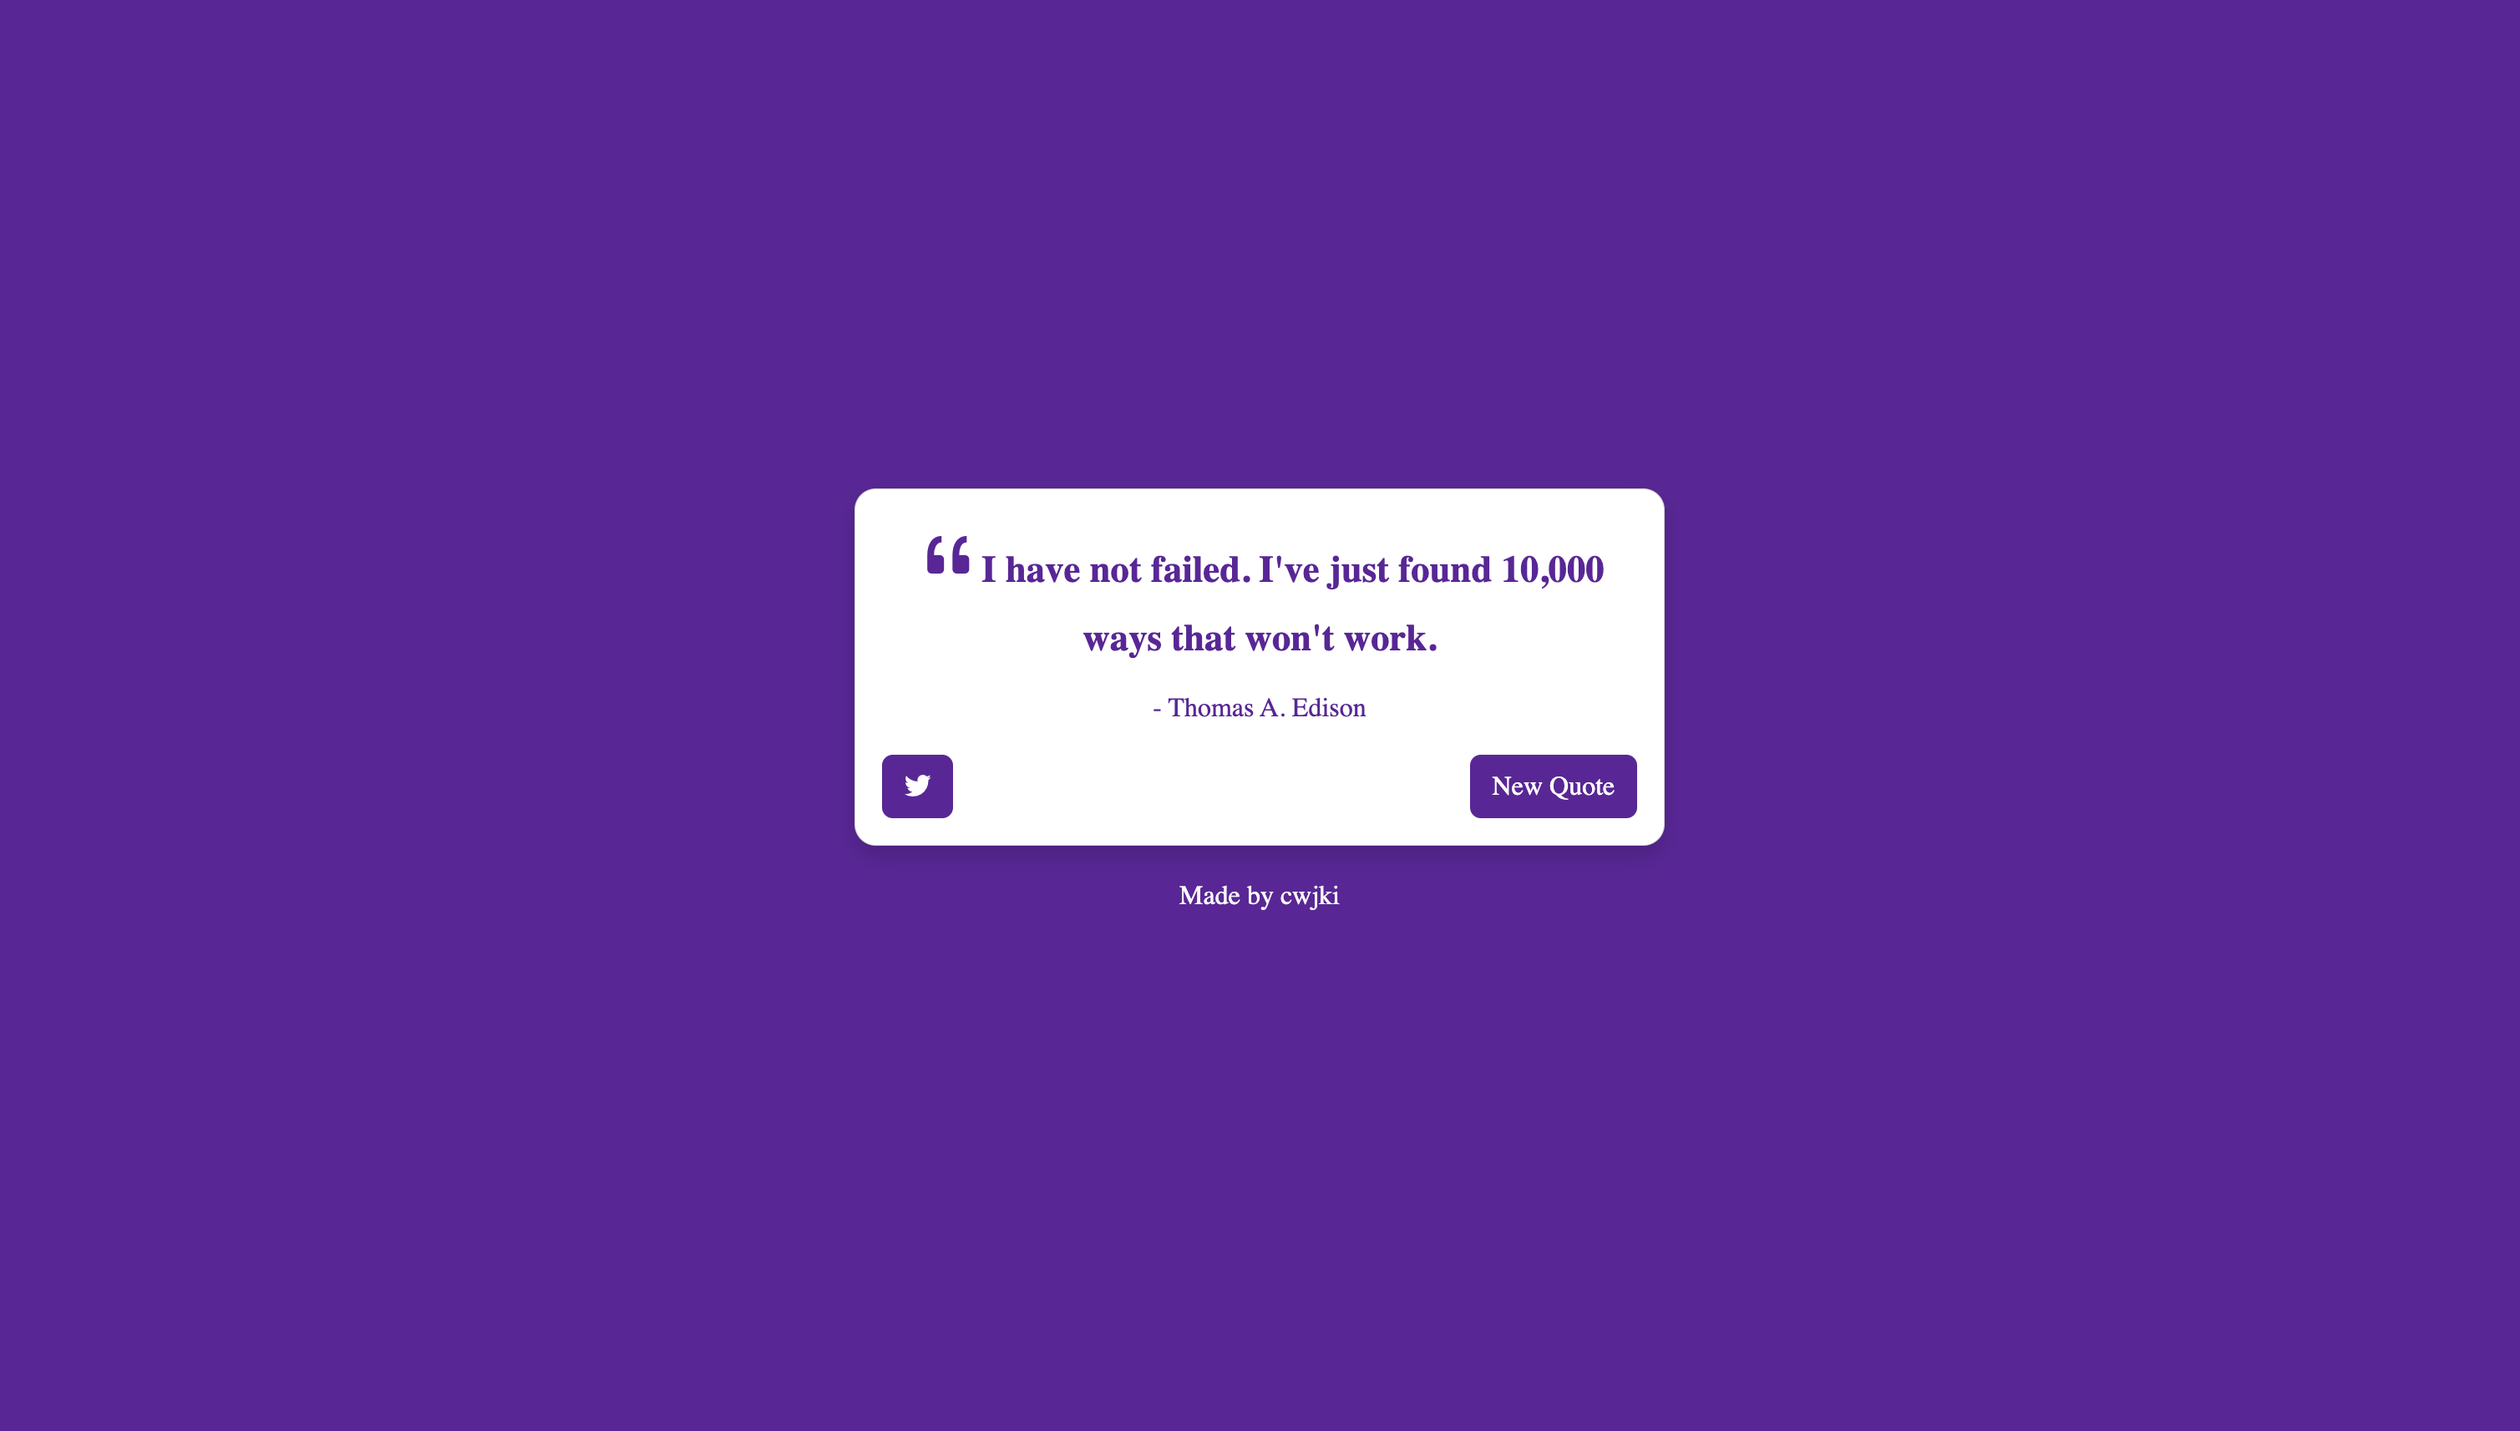
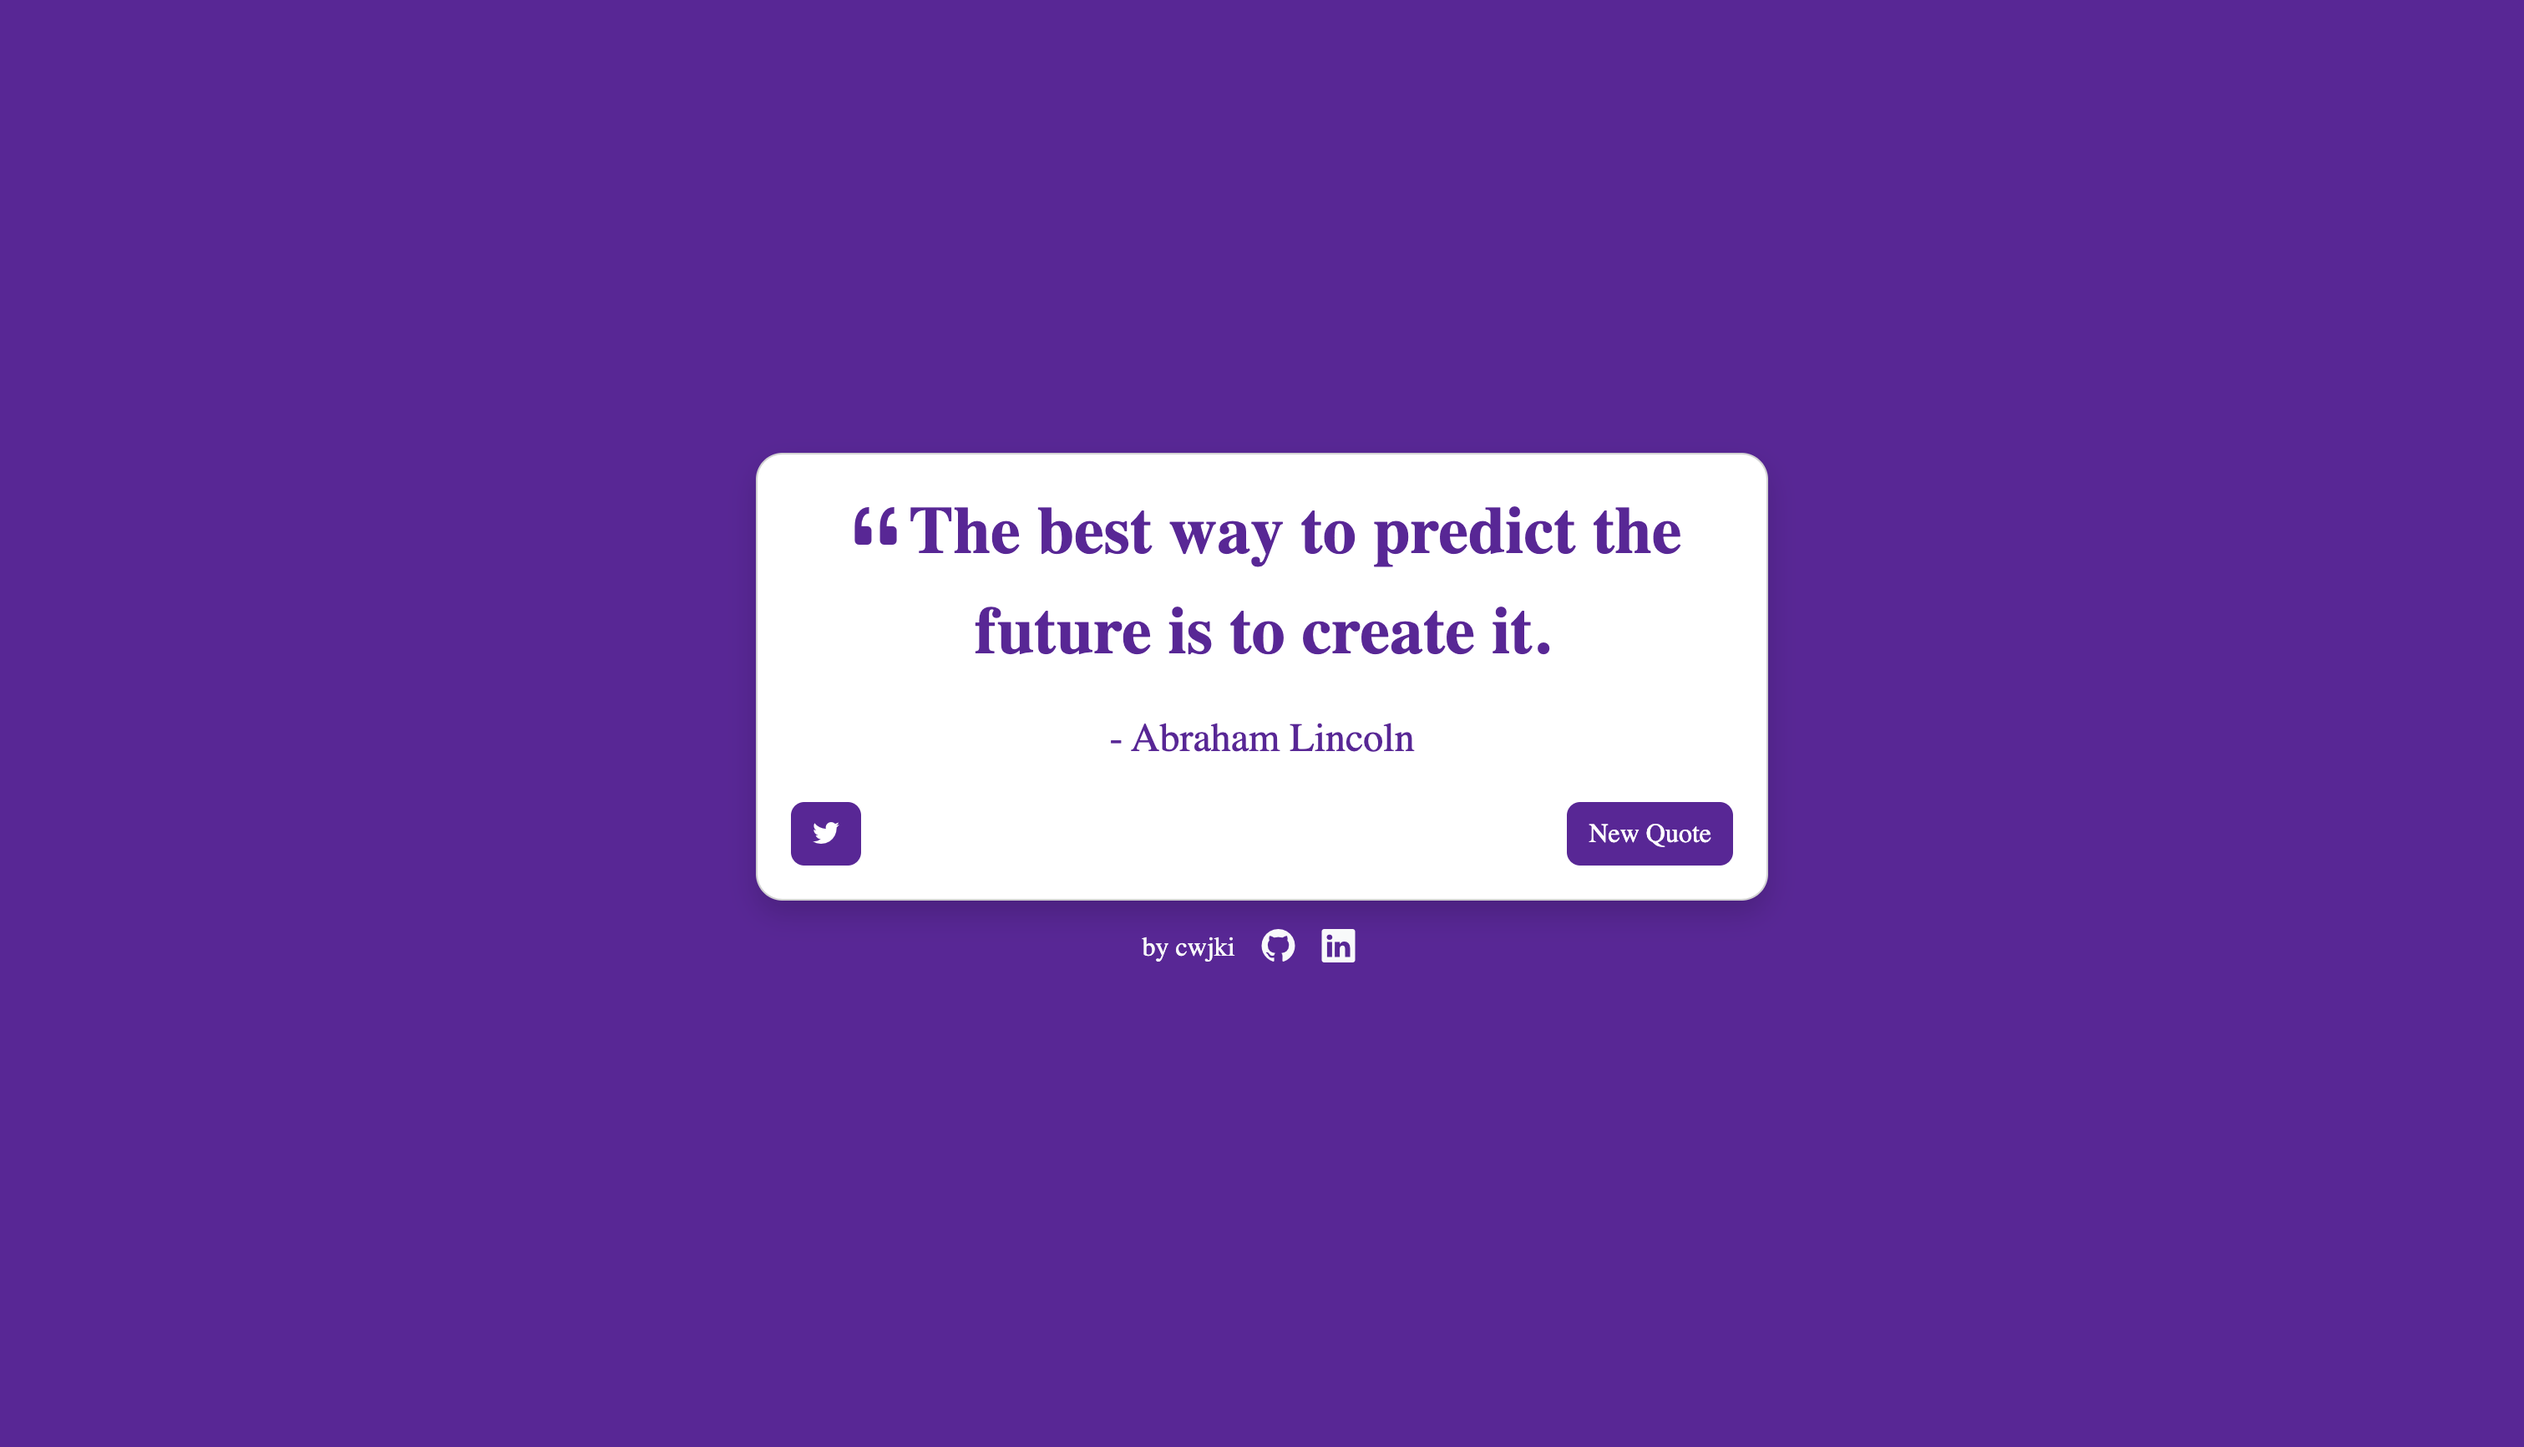
updating the sizing, and the url project

Changed region(s): [[0.2804, 0.3092, 0.7166, 0.6803], [0.4362, 0.4947, 0.5608, 0.5257]]

diff --git a/src/components/QuoteBox.js b/src/components/QuoteBox.js
@@ -1,11 +1,13 @@
 import React, { useState } from "react";
-import {quotes, colors} from "../data/quotes";
-
+import { quotes, colors } from "../data/quotes";
 
 const QuoteBox = () => {
-  const [quoteIndex, setQuoteIndex] = useState(Math.floor(Math.random() * quotes.length));
-  const [colorIndex, setColorIndex] = useState(Math.floor(Math.random() * colors.length));
-
+  const [quoteIndex, setQuoteIndex] = useState(
+    Math.floor(Math.random() * quotes.length)
+  );
+  const [colorIndex, setColorIndex] = useState(
+    Math.floor(Math.random() * colors.length)
+  );
 
   const onClick = () => {
     let rIndex = Math.floor(Math.random() * quotes.length);
@@ -16,83 +18,130 @@ const QuoteBox = () => {
     }
     setQuoteIndex(rIndex);
     setColorIndex(rColor);
-  }
+  };
 
   return (
-    <div className="container-fluid vw-100 vh-100" 
-         style={{backgroundColor: colors[colorIndex],
-                 transition: "all 1.5s ease",
-                 WebkitTransition: "all 1.5s ease",
-                 MozTransition: "all 1.5s ease"}}>
+    <div
+      className="container-fluid vw-100 vh-100"
+      style={{
+        backgroundColor: colors[colorIndex],
+        transition: "all 1.5s ease",
+        WebkitTransition: "all 1.5s ease",
+        MozTransition: "all 1.5s ease",
+      }}
+    >
       <div className="row align-items-center vh-100">
-        <div className="col-xl-4 col-md-6 col-sm-6 col-11 mx-auto" id="quote-box">
+        <div
+          className="col-xl-5 col-md-6 col-sm-6 col-11 mx-auto"
+          id="quote-box"
+        >
           <div className="card shadow rounded-4">
             <div className="card-body d-flex flex-column">
-                <p 
-                  style={{
-                    color: colors[colorIndex], 
-                    transition: "all 1.5s ease",
-                    WebkitTransition: "all 1.5s ease",
-                    MozTransition: "all 1.5s ease"
-                    }} 
-                  id="text" 
-                  className="fs-3 text-center fw-semibold">
-                    <i className="bi bi-quote" style={{fontSize: 50}}></i>
-                    {quotes[quoteIndex].quote}
-                </p>
-                <p 
-                  style={{
-                    color: colors[colorIndex], 
-                    transition: "all 1.5s ease",
-                    WebkitTransition: "all 1.5s ease",
-                    MozTransition: "all 1.5s ease"
-                  }} 
-                  id="author" 
-                  className="fs-5 text-center fw-light">
-                    - {quotes[quoteIndex].author}
-                </p>
-                <div className="row p-1">
-                  <div className="col-6">
-                    <a id="tweet-quote" target="_blank" rel="noreferrer"
-                    href={`https://twitter.com/intent/tweet?hashtags=quotes&text="${quotes[quoteIndex].quote}" - ${quotes[quoteIndex].author}`}>
-                      <button 
-                        className="btn btn-lg rounded-3" 
-                        style={{
-                          backgroundColor: colors[colorIndex], 
-                          color: 'white', 
-                          transition: "all 1.5s ease",
-                          WebkitTransition: "all 1.5s ease",
-                          MozTransition: "all 1.5s ease"}}>
-                          <i class="bi bi-twitter"></i>
-                        </button>
-                    </a>
-                  </div>
-                  <div className="col-6 text-end">
-                    <button 
+              <p
+                style={{
+                  color: colors[colorIndex],
+                  transition: "all 1.5s ease",
+                  WebkitTransition: "all 1.5s ease",
+                  MozTransition: "all 1.5s ease",
+                }}
+                id="text"
+                className="fs-1 text-center fw-semibold"
+              >
+                <i className="bi bi-quote"></i>
+                {quotes[quoteIndex].quote}
+              </p>
+              <p
+                style={{
+                  color: colors[colorIndex],
+                  transition: "all 1.5s ease",
+                  WebkitTransition: "all 1.5s ease",
+                  MozTransition: "all 1.5s ease",
+                }}
+                id="author"
+                className="fs-4 text-center fw-light"
+              >
+                - {quotes[quoteIndex].author}
+              </p>
+              <div className="row p-1">
+                <div className="col-6">
+                  <a
+                    id="tweet-quote"
+                    target="_blank"
+                    rel="noreferrer"
+                    href={`https://twitter.com/intent/tweet?hashtags=quotes&text="${quotes[quoteIndex].quote}" - ${quotes[quoteIndex].author}`}
+                  >
+                    <button
+                      className="btn rounded-3"
                       style={{
-                        backgroundColor: colors[colorIndex], color: 'white', 
+                        backgroundColor: colors[colorIndex],
+                        color: "white",
                         transition: "all 1.5s ease",
                         WebkitTransition: "all 1.5s ease",
-                        MozTransition: "all 1.5s ease"
-                      }} 
-                      id="new-quote" 
-                      className="btn btn-lg rounded-3"
-                      onClick={onClick}>
-                        New Quote
-                      </button>
-                  </div>
+                        MozTransition: "all 1.5s ease",
+                      }}
+                    >
+                      <i class="bi bi-twitter"></i>
+                    </button>
+                  </a>
                 </div>
+                <div className="col-6 text-end">
+                  <button
+                    style={{
+                      backgroundColor: colors[colorIndex],
+                      color: "white",
+                      transition: "all 1.5s ease",
+                      WebkitTransition: "all 1.5s ease",
+                      MozTransition: "all 1.5s ease",
+                    }}
+                    id="new-quote"
+                    className="btn rounded-3"
+                    onClick={onClick}
+                  >
+                    New Quote
+                  </button>
+                </div>
+              </div>
             </div>
           </div>
-          <div className="row mt-3">
-            <a className="btn btn-muted btn-outlined" id="cwjki" href="https://github.com/cwjki" target="_blank" rel="noreferrer">
-              <p className="text-center text-light fs-5">Made by cwjki </p>  
+
+          {/* Footer */}
+          <nav className="navbar pb-2 ">
+            <div className="container-fluid justify-content-center">
+              <span className="navbar-brand fs-6 text-light">by cwjki</span>
+              <a
+                className="navbar-brand"
+                href="https://github.com/cwjki"
+                target="_blank"
+                rel="noreferrer"
+              >
+                <i className="bi bi-github text-light"></i>
+              </a>
+              <a
+                className="navbar-brand"
+                href="https://www.linkedin.com/in/juan-carlos-casteleiro/"
+                target="_blank"
+                rel="noreferrer"
+              >
+                <i className="bi bi-linkedin text-light"></i>
+              </a>
+            </div>
+          </nav>
+
+          {/* <div className="row mt-3">
+            <a
+              className="btn btn-muted btn-outlined"
+              id="cwjki"
+              href="https://github.com/cwjki"
+              target="_blank"
+              rel="noreferrer"
+            >
+              <p className="text-center text-light fs-5">Made by cwjki </p>
             </a>
-          </div>
+          </div> */}
         </div>
       </div>
     </div>
-  )
-}
+  );
+};
 
 export default QuoteBox;

diff --git a/README.md b/README.md
@@ -7,4 +7,4 @@ First project to obtain the Front End Development Libraries certification from f
 ![project img](/public/random-quote-machine.png)
 
 
-[Link to the Random Quote Machine](https://cwjki.github.io/random-quote-machine-react/) 
+[Link to the Random Quote Machine](https://cwjki.github.io/random-quote-machine/) 
